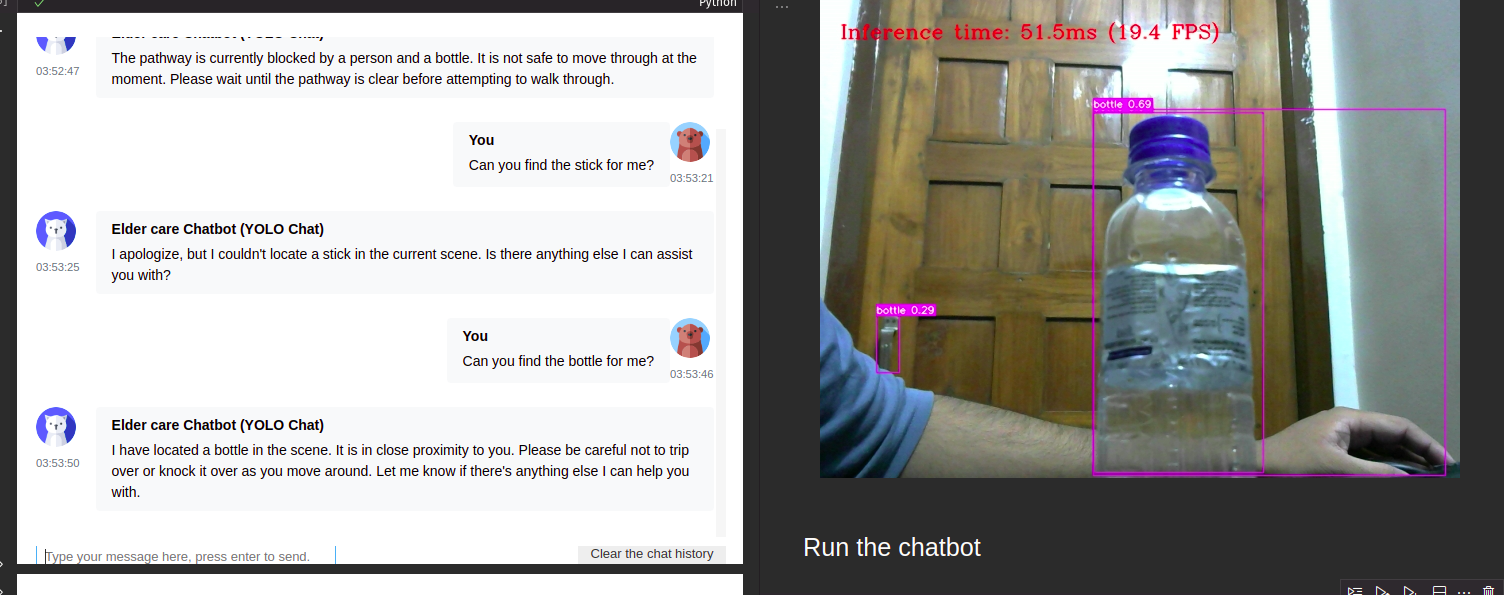
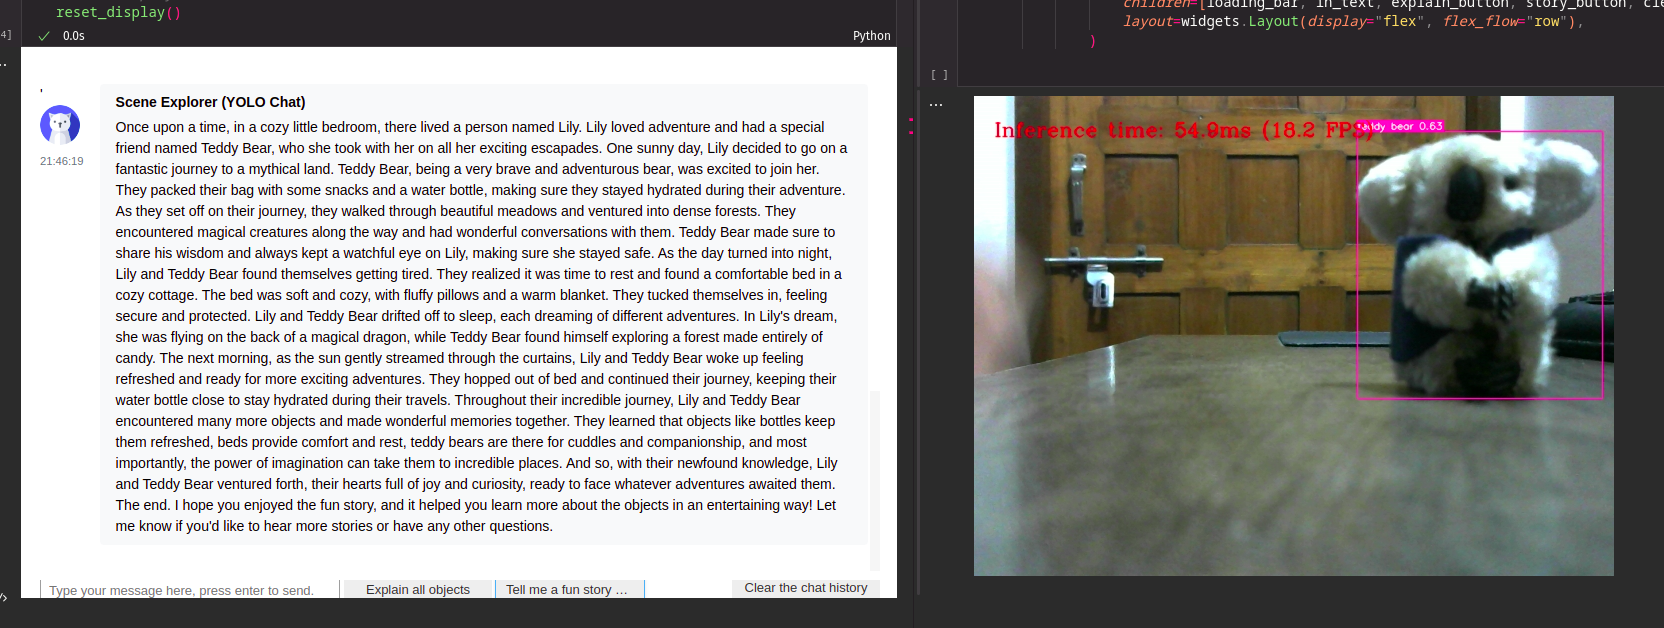
SOD-00: README updated

diff --git a/README.md b/README.md
@@ -1,5 +1,5 @@
-# An Elderly Indoor Care Chatbot (OpenVINO optimised YOLOv8 + OpenAI Chat API with functions)
-This is a fun application of OpenVINO and OpenAI Chatbot API. (In more simple words a YOLO-Chat or chat with current scene)
+# Scene Explorer for kids (OpenVINO optimised YOLOv8 + OpenAI Chat API with functions)
+This is a fun application of OpenVINO and OpenAI Chatbot API. (Mostly a copy of the [Indoor Care Chatbot](https://github.com/AJV009/indoor-care-chatbot) that i developed previously. This is just an experimental project to see if we can use the same chatbot to interact with the environment and answer questions about the environment.)
 
 ![head](demoImages/head.png)
 
@@ -8,30 +8,30 @@ This is a fun application of OpenVINO and OpenAI Chatbot API. (In more simple wo
 - Currently, it can detect 80 different objects. (According to the COCO dataset)
 - Uses a YOLOv8 model that is optimised using OpenVINO to run on CPU.
 - Uses the functions capablities of OpenAI Chat API to trigger actions like finding nearby objects.
-- __Implemented a pixel to meter estimation method that uses a range of real world scales of all 80 objects.__ Checkout the functions `calculate_center_and_scale`, `calculate_distance_matrix`, and `draw_results` at `utils/postProcess.py` and for the rough real world scale of 80 objects checkout the `coco_real_world_sizes` variable in `utils/objectDetect.py`. **(IMP - Most time spent here to find a way to get real world estimates, current accuracy is kinda bad. We use a map of real world estimates (unit:meter) of all 80 objects and did some scaling to find the distances of objects close and far from the camera)**
+- There are a couple of pre made buttons inside the Chat UI that can be triggered to get a fun learning story about all the objects in the scene or just understand about the scene in general.
 
 ## How it works?
 - The chatbot is initialised with a YOLOv8 model that is optimised using OpenVINO to run on CPU.
 - The following is the system prompt that drives the GPT behaviour:
     ```
-    You are an elderly care assistant.
-    You have to help and guide the elderly in their daily life whenever they need it.
-    You are are bot connected to a YOLO Camera.
-    So you will have capablities to call functions to interact with the environment.
+    You are a fun assistant for 5yr old kids.
+    You have to help them understand and learn about daily objects.
+    You are connected to a YOLO Camera.
+    You are obviously placed in a room.
     ```
-- When the users asks something like "Can I walk without bumping into anything?", the chatbot will do the following:
-    - First collect all the frame data from a specified amount of time. (Refer `text_eventhandler` in `main.ipynb`. The `run_object_detection` calls `draw_results` which returns a matrix of distances between all objects in all the frames of the specified amount of time.)
-    - Then pass the extracted data is passed to the helper function, in our case it will be `is_pathway_clear` in `main.ipynb` which will quickly check if the `all_detected_objects` is empty or not. Whatever the case maybe be it will return a string.
+- When the users asks something like "What is it that I am seeing?", the chatbot will do the following:
+    - First collect all the frame data from a specified amount of time. (Refer `text_eventhandler` in `main.ipynb`.)
+    - Then pass the extracted data is passed to the helper function, in our case it will be `identify_object` in `main.ipynb` which will quickly check if the `all_detected_objects` is empty or not. Whatever the case maybe be it will return a string of all the objects in the scene.
     - This string is then passed to the chat api to generate a meaningful response.
 
 ## How can this be used?
-- This can be implemented as a plugin for smart home assistants.
-- The elderly can ask questions like "Can I walk without bumping into anything?" or "Find my xyz object!" or "is the chair close?" and the chatbot will answer accordingly.
+- This can be implemented as a plugin for portable kids assistants or mobile apps.
+- Children can ask questions like "what is this?" or "tell me a story about this!" or "what can I do with this teddy bear?" and the chatbot will answer accordingly.
 
 ## How can this project be extended? (Since this is just an experimental project, we can extend it in the following ways)
 - It runs of a notebook, this can be easily adapted to run on a smaller IoT device like a Raspberry Pi with connected camera and a microphone for user interactions.
-- Should be trained with a lerger indoor objects dataset to be more accurate.
-- We can add more useful functions like "check if anyone's at the door", "find my daughter" and so on. (When it comes to care of the elderly, the possibilities are endless.)
+- Should be trained with a larger indoor objects dataset to be more accurate.
+- We can add more useful functions like "detect harmful objects in the vicinity of the kid and alert the elders and kids", "find my specific toy" and so on. (When it comes to child entertainment and safety, the possibilities are endless.)
 
 ## How to run
 1. Install the requirements:
@@ -46,12 +46,9 @@ _Note: Demo won't work without creating the optimized model._
 ## Project file structure
 - `utils/` - Contains all the helper functions.
     - `objectDetect.py` - Contains all the functions related to object detection.
-        - `coco_real_world_sizes` A map of real world estimates (unit:meter) of all 80 objects from COCO dataset.
         - `run_object_detection` - Runs the object detection model on the input frame.
     - `postProcess.py` - Contains all the functions related to post processing of the object detection results.
         - `draw_results` - Draws the bounding boxes and calculates the distances between all objects in all the frames of the specified amount of time.
-        - `calculate_distance_matrix` - Calculates the distance matrix between all objects in the frame.
-        - `calculate_center_and_scale` - Calculates the center and scale of the object in the frame.
     - `videoPlayer.py` - Contains all the functions related to video playback.
     - `downloader.py` - Contains all the functions related to downloading files.
 - `prepareModel.ipynb` - Converts the model to OpenVINO format.
